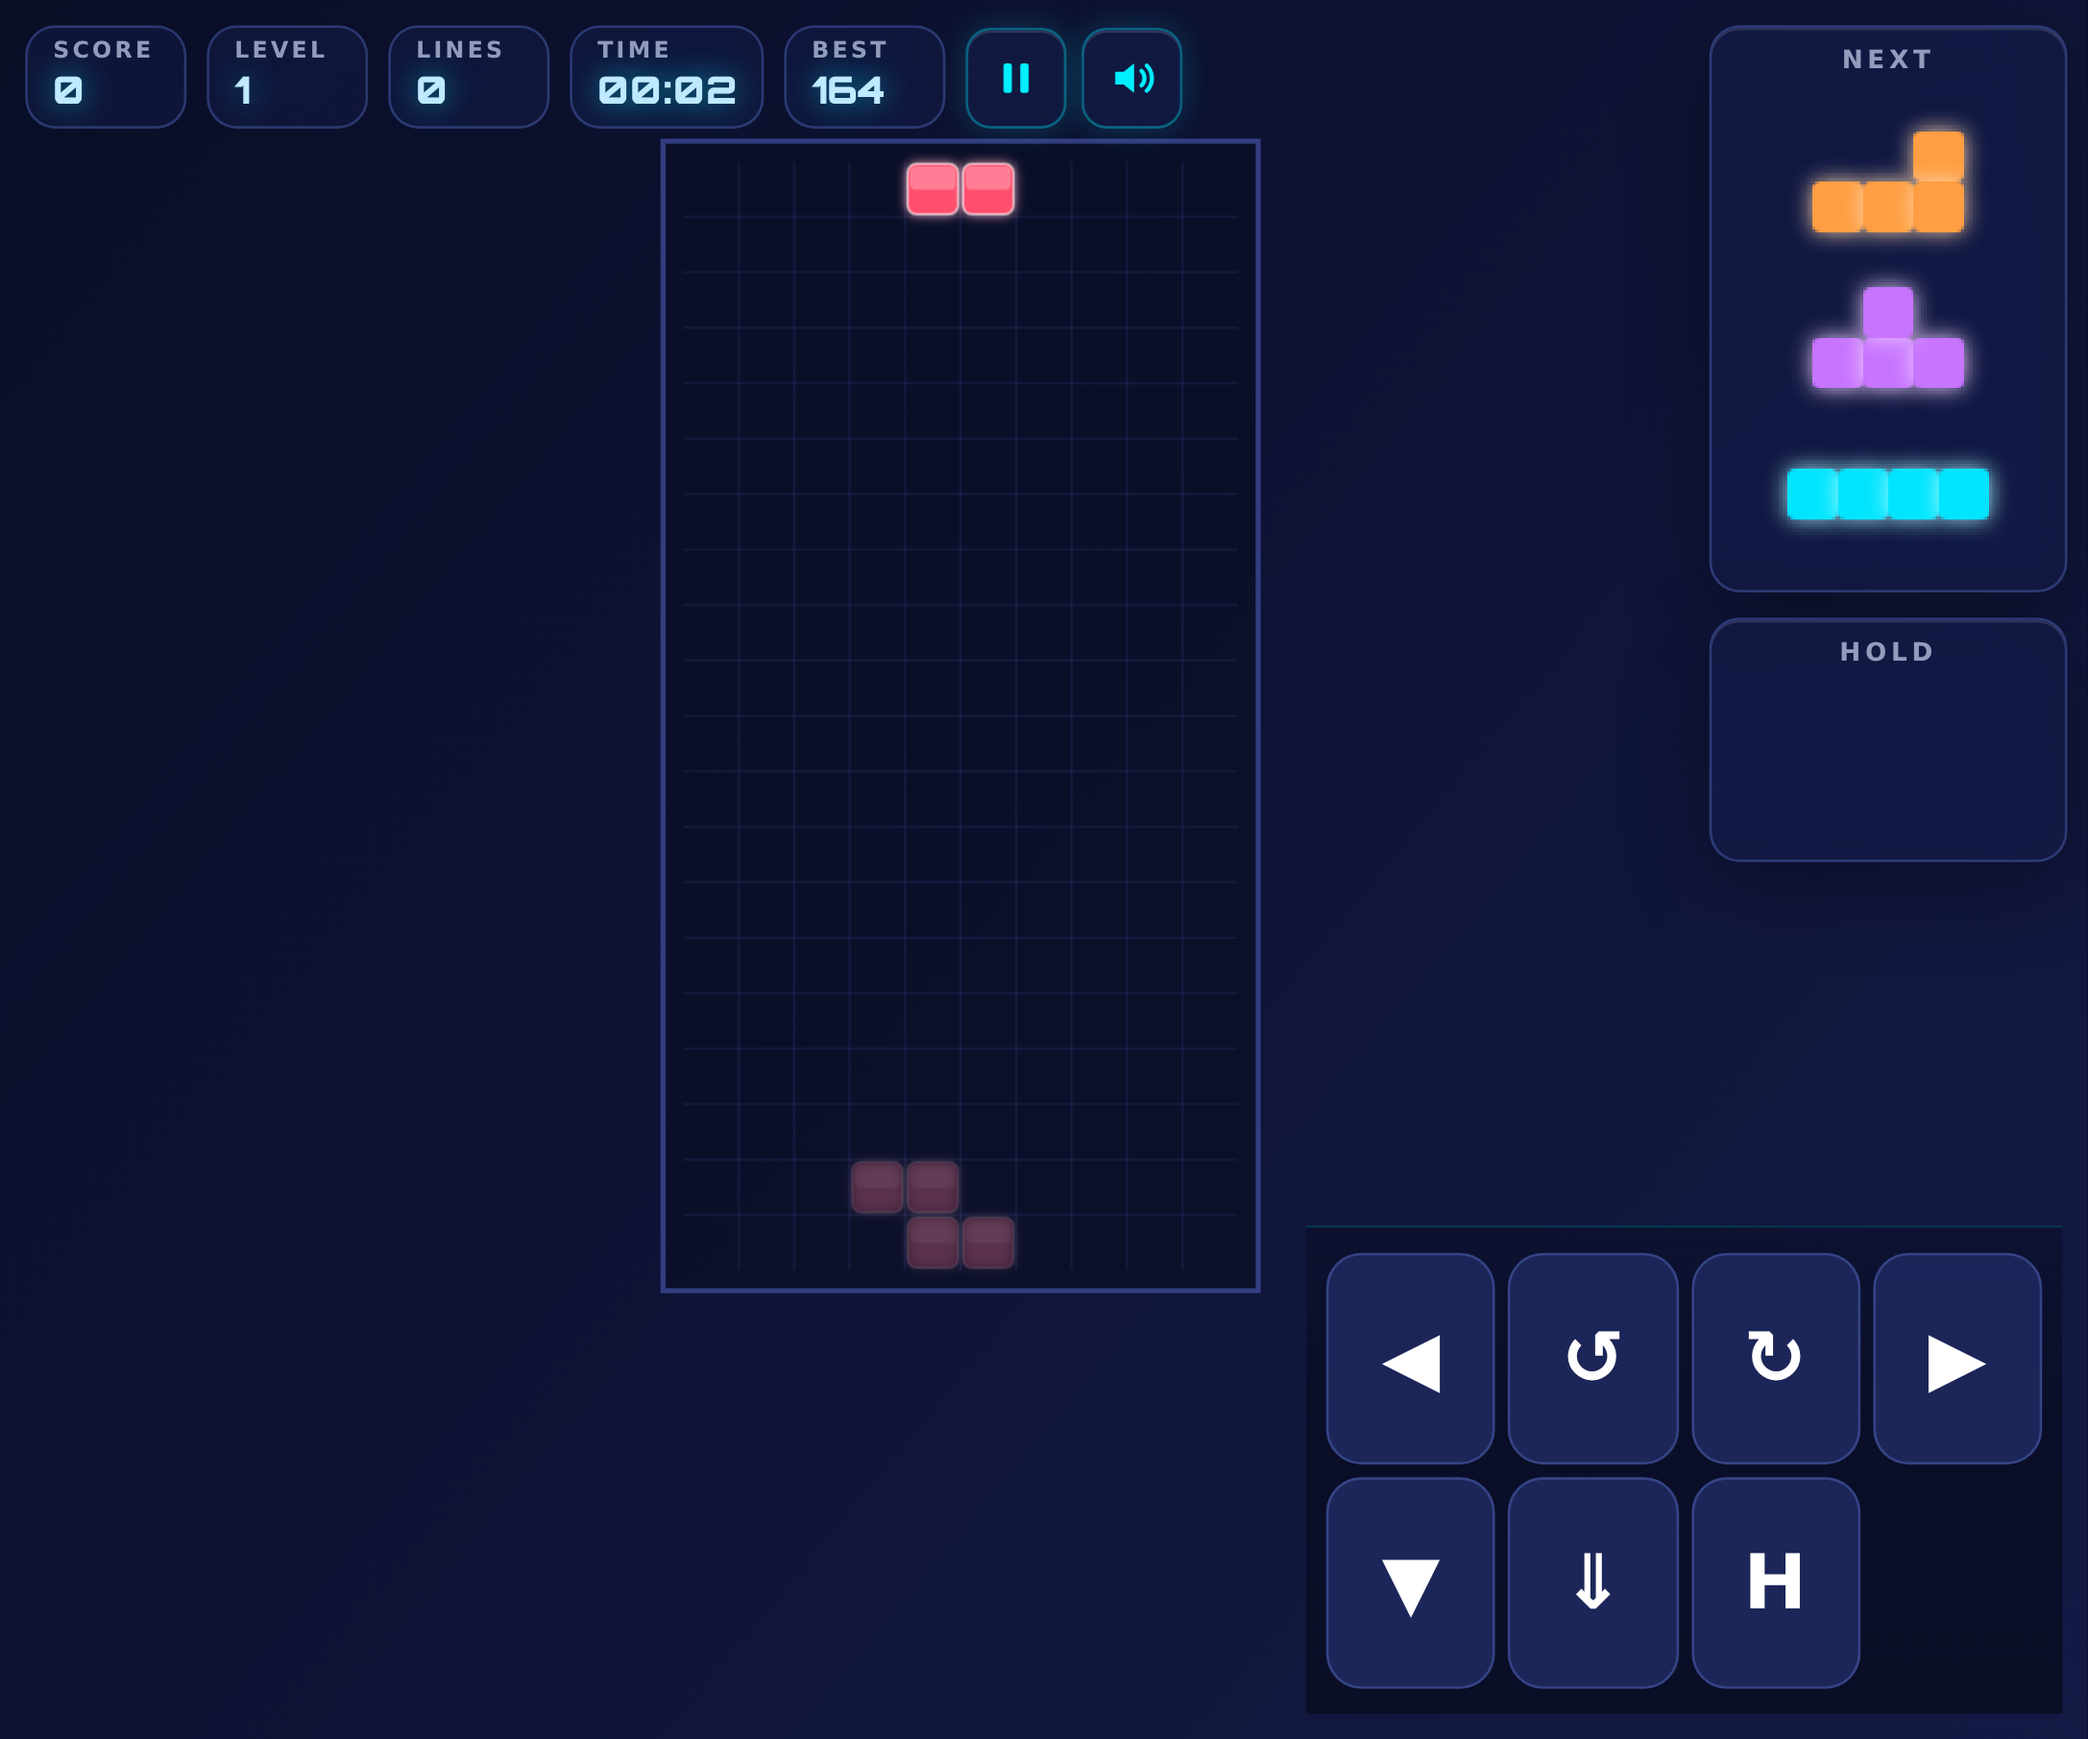
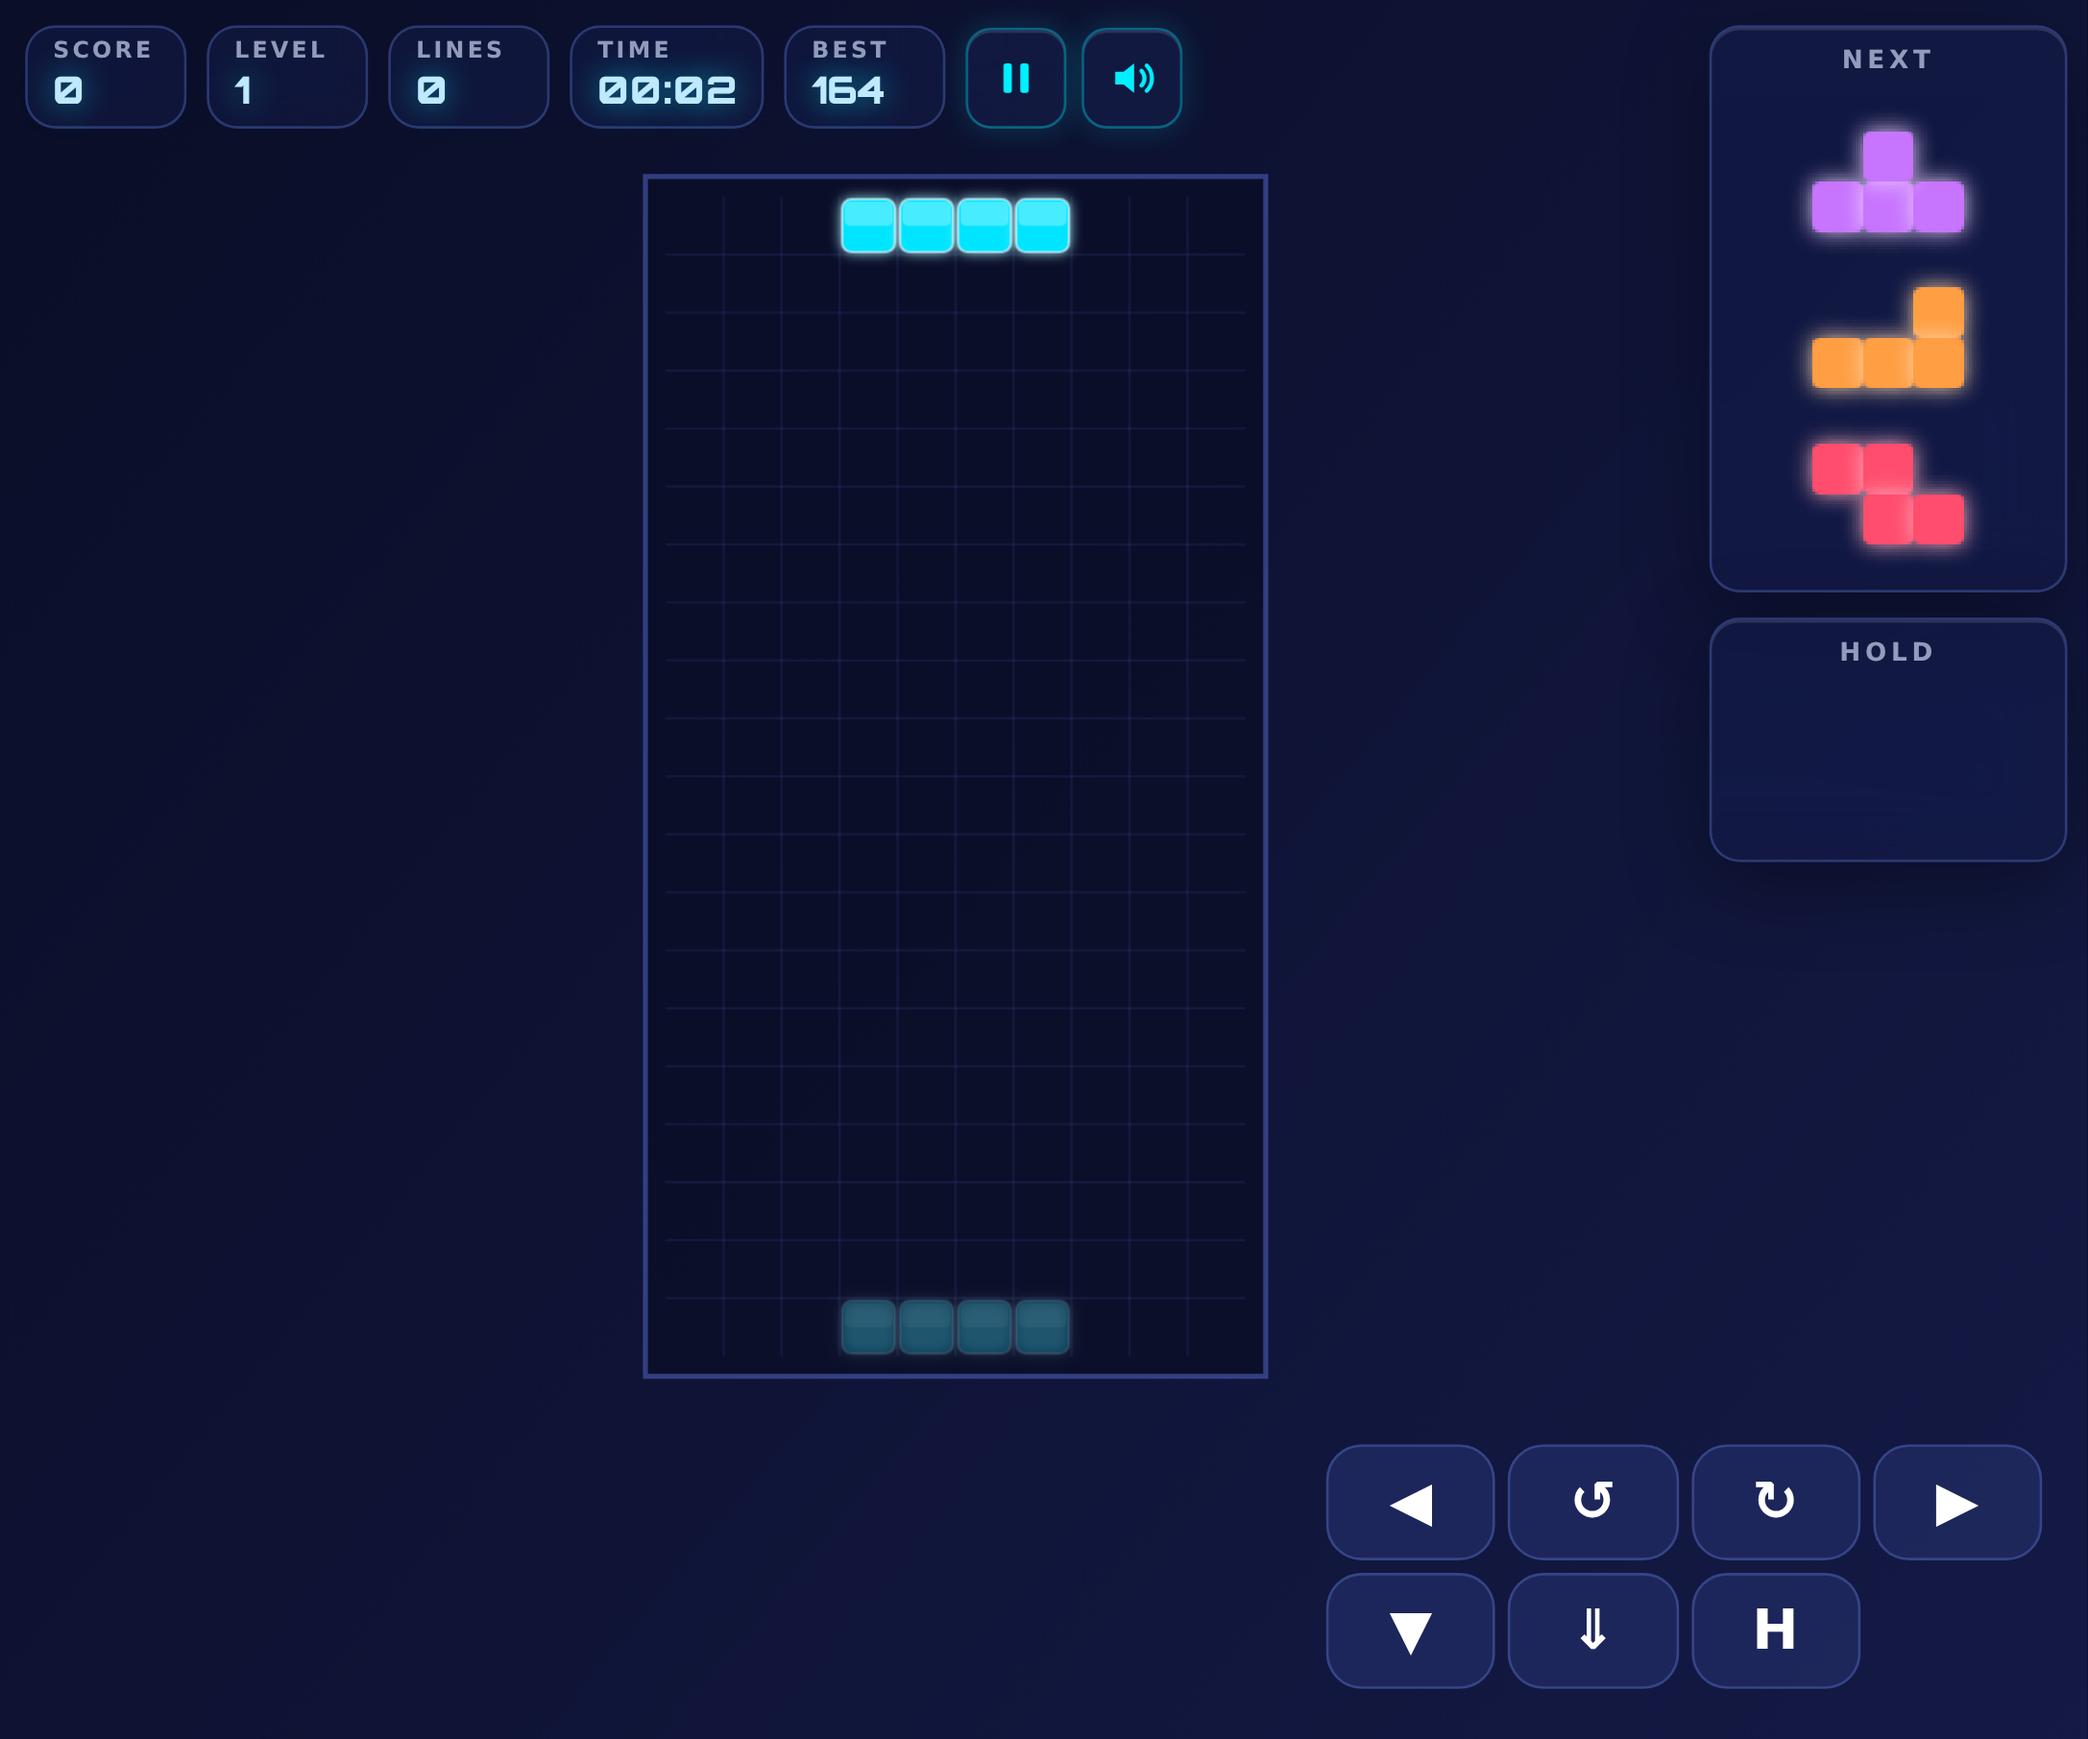
layout: UI実測ベースで盤面フィット(縦:ボタン被り解消/横:盤面拡大+操作パッドslim化)

Changed region(s): [[0.3082, 0.0618, 0.9862, 0.9895], [0.8321, 0.0618, 0.9554, 0.3401], [0.4006, 0.6494, 0.5239, 0.804]]

diff --git a/src/engine/renderer.ts b/src/engine/renderer.ts
@@ -15,25 +15,23 @@ export interface Layout {
   showSide: boolean;  // 横長時にサイドパネル表示
 }
 
-export function computeLayout(w: number, h: number): Layout {
+export function computeLayout(w: number, h: number, reserves?: { bottom?: number; top?: number; side?: number }): Layout {
   const isLandscape = w / h >= 1.2;
-  // 縦持ちタッチ端末: 下部の操作バー(~86px + safe-area)をボードから除く（回帰: 操作ボタンが落下エリアに被る）
-  const coarse = window.matchMedia('(pointer: coarse)').matches;
-  // 縦持ち: 操作バー1段(~92px) / 横長: 操作バー2段(~200px) をボード下に予約（回帰: ボタンが落下エリアに被る）
-  const bottomReserve = coarse ? (isLandscape ? 210 : 96) : 0;
+  // 有名テトリスのモバイルUIと同様、盤面は「実測された UI 領域を除いた残り」にフィットさせる。
+  // caller(main.layout)が touchpad/HUD の実測 getBoundingClientRect を渡す（回帰: 固定値だと実機で盤面がボタンに被る）
+  const bottomReserve = Math.round(reserves?.bottom ?? 0);
+  const topReserve = Math.round(reserves?.top ?? 0);
+  const sideReserve = Math.round(reserves?.side ?? 0);
   // セルサイズ: 縦横の小さい方から算出（20行+α / 10列+α）
-  const cellL = Math.floor((h - 24 - bottomReserve) / ROWS);
-  const sideReserve = !isLandscape && coarse ? 112 : 0; // 縦持ち: 右にNEXT/HOLD帯
+  const cellL = Math.floor((h - 24 - bottomReserve - topReserve) / ROWS);
   const cellP = Math.floor(((w - 24 - sideReserve) / (isLandscape ? 2.1 : 1)) / COLS);
-  const cell = Math.max(12, Math.min(cellL, cellP, 44));
+  const cell = Math.max(10, Math.min(cellL, cellP, 44));
   const boardW = cell * COLS;
   const boardH = cell * ROWS;
   const boardX = isLandscape ? Math.floor(w / 2 - boardW / 2 - cell * 1.5) : Math.floor((w - sideReserve) / 2 - boardW / 2);
-  const topReserve = bottomReserve > 0 ? (isLandscape ? 64 : 84) : 0; // HUD分の上部余白
-  const maxY = h - bottomReserve - boardH - 8;
-  const boardY = bottomReserve > 0
-    ? Math.max(topReserve, Math.min(Math.floor((h - bottomReserve - boardH) / 2), maxY))
-    : Math.max(topReserve, Math.floor((h - boardH) / 2));
+  const availTop = topReserve;
+  const availBottom = h - bottomReserve;
+  const boardY = Math.min(Math.max(availTop + 4, Math.floor((availTop + availBottom - boardH) / 2)), Math.max(availTop + 4, availBottom - boardH - 8));
   return { cell, boardX, boardY, boardW, boardH, showSide: isLandscape };
 }
 
@@ -87,13 +85,19 @@ export class Renderer {
     this.layout = computeLayout(canvas.clientWidth || 800, canvas.clientHeight || 600);
   }
 
+  reserves: { bottom?: number; top?: number; side?: number } = {};
+  setReserves(res: { bottom?: number; top?: number; side?: number }): void {
+    this.reserves = res;
+    const w = this.canvas.clientWidth, h = this.canvas.clientHeight;
+    this.layout = computeLayout(w, h, res);
+  }
   resize(): void {
     const el = this.canvas;
     const w = el.clientWidth, h = el.clientHeight;
     el.width = Math.floor(w * this.dpr);
     el.height = Math.floor(h * this.dpr);
     this.ctx.setTransform(this.dpr, 0, 0, this.dpr, 0, 0);
-    this.layout = computeLayout(w, h);
+    this.layout = computeLayout(w, h, this.reserves);
   }
 
   /** 1フレーム描画 */

diff --git a/src/main.ts b/src/main.ts
@@ -82,7 +82,6 @@ async function main(): Promise<void> {
 
 function layout(): void {
   if (!renderer) return;
-  renderer.resize();
   const vv = window.visualViewport;
   const vw = vv ? vv.width : window.innerWidth;
   const vh = vv ? vv.height : window.innerHeight;
@@ -93,6 +92,20 @@ function layout(): void {
   const pad = document.getElementById('touchpad')!;
   hud.style.top = `${offTop + 10}px`;
   hud.style.left = '10px';
+  // 実測ベースのレイアウト（回帰: 固定reserveだと実機で盤面がボタンに被る/横画面で盤面が小さい）
+  // 1) 先に DOM 位置を確定 → 2) touchpad/HUD/panels の実高を実測 → 3) 盤面を残り領域にフィット
+  const hudH = hud.offsetHeight + 20; // HUD 高+下マージン
+  requestAnimationFrame(() => {
+    // touchpad はこの時点で DOM 完了している
+    const pr = pad.getBoundingClientRect();
+    const nr = panels.getBoundingClientRect();
+    const bottomReserve = Math.ceil(pr.height + (vh - pr.bottom)) + 8; // pad 高 + 下部残り(safe-area)
+    const topReserve = Math.ceil(offTop + hudH);
+    const sideReserve = isLandscape ? 0 : Math.ceil(nr.width + 24);
+    renderer.setReserves({ bottom: bottomReserve, top: topReserve, side: sideReserve });
+    renderer.resize();
+  });
+  // DOM 変更（display/位置）はここまでに確定させる
   if (isLandscape) {
     panels.style.display = 'grid';
     panels.style.top = `${offTop + 10}px`;

diff --git a/src/styles.css b/src/styles.css
@@ -82,7 +82,7 @@ html, body {
    代わりに touchpad の gap を広げる */
 /* Fold8 展開 (横長) はさらに大きく */
 @media (orientation: landscape) {
-  #touchpad .tc { height: 84px; font-size: 30px; }
+  #touchpad .tc { height: 46px; font-size: 22px; }
 }
 .hud-label {
   display: block;
@@ -142,8 +142,7 @@ html, body {
   padding: 10px 8px calc(10px + env(safe-area-inset-bottom));
   z-index: 11;
   /* 専用バー: 背景ベタ → ボードブロックが透けて見えない (回帰: 操作ボタンが落下エリアに被る) */
-  background: linear-gradient(180deg, rgba(10, 14, 39, 0.55) 0%, rgba(10, 14, 39, 0.97) 38%, #0a0e27 100%);
-  border-top: 1px solid rgba(0, 240, 255, 0.16);
+  background: transparent; /* 横持ちでは右下に分離するため帯背景不要 (縦持ちは下記で上書き) */
 }
 .tc {
   height: 64px;
@@ -274,3 +273,11 @@ html, body {
 
 #ov-title { text-align: center; }
 #ov-action { display: block; margin-left: auto; margin-right: auto; }
+
+/* 縦持ち: 操作バー背景は帯 (盤面との分離) */
+@media (pointer: coarse) and (orientation: portrait) {
+  #touchpad {
+    background: linear-gradient(180deg, rgba(10, 14, 39, 0.55) 0%, rgba(10, 14, 39, 0.97) 38%, #0a0e27 100%);
+    border-top: 1px solid rgba(0, 240, 255, 0.16);
+  }
+}
